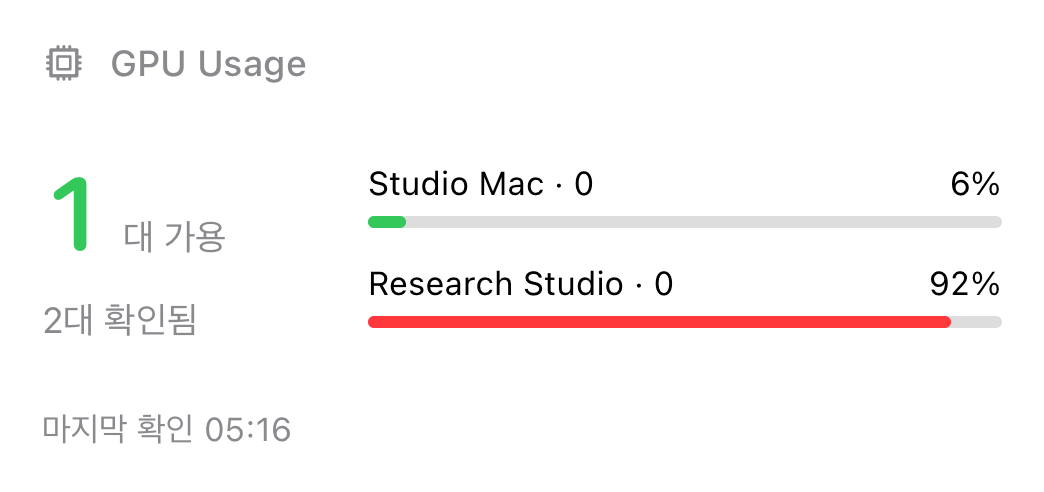
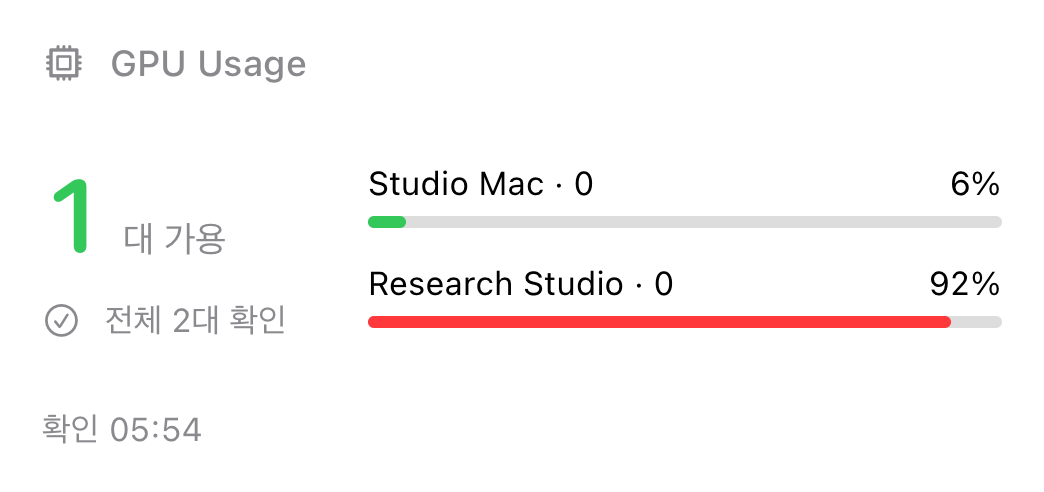
Refine GPU Usage 2.2.1 monitoring workflows and publish update feed

diff --git a/gpu-usage/README.md b/gpu-usage/README.md
@@ -4,13 +4,13 @@ Your GPUs, everywhere. A small utility for researchers and developers, with nati
 
 **Beta limitation:** Production iCloud setup is pending. Cross-device settings sync and iPhone-to-Mac Pro activation do not work yet. Manual server registration and viewing work independently on each device.
 
-[Download the current beta](https://github.com/saankim/myapps-releases/releases/tag/gpu-usage-v2.2.0) · [Privacy](PRIVACY.md)
+[Download the current beta](https://github.com/saankim/myapps-releases/releases/tag/gpu-usage-v2.2.1) · [Privacy](PRIVACY.md)
 
 ## Install
 
 **Mac:** Requires an Apple silicon Mac running macOS 26 or later. Unzip the release and move **GPU Usage.app** to **Applications**. Open it and use the menu-bar CPU icon. The app is signed with Developer ID and notarized by Apple.
 
-Starting with 2.2.0, open Settings → **This Mac (이 Mac)** → **Check for Updates (업데이트 확인)** to install updates inside the app. Automatic checks can be turned off there; installation requires your action. Updates are verified with Developer ID and Sparkle signatures. Users on 2.1.2 or earlier need to install 2.2.0 manually once.
+Starting with 2.2.0, open Settings → **This Mac (이 Mac)** → **Check for Updates (업데이트 확인)** to install updates inside the app. Automatic checks can be turned off there; installation requires your action. Updates are verified with Developer ID and Sparkle signatures. Users on 2.1.2 or earlier need to install the current release manually once.
 
 **iPhone / iPad:** Requires iOS or iPadOS 26 or later. The current version is an internal TestFlight beta; an invited Apple account is required. The public App Store listing is not yet available.
 
@@ -30,7 +30,7 @@ If `~/.local/bin` is not on your PATH, use the full path or add it to your shell
 
 ## Connect
 
-Register a server in Settings using an SSH address, username and key or password. Mac SSH `Host` entries appear automatically, including included configuration files; wildcard entries and proxy/jump connections are excluded. iPhone and iPad support unencrypted OpenSSH Ed25519 keys and SSH passwords. Each device still needs a network route to the server.
+Open Settings → **Server Management (서버 관리)** → **Add Server (서버 추가)**, then enter an SSH address, username and key or password. Mac SSH `Host` entries appear automatically, including included configuration files; wildcard entries and proxy/jump connections are excluded. iPhone and iPad support unencrypted OpenSSH Ed25519 keys and SSH passwords. Each device still needs a network route to the server.
 
 The first server key is remembered automatically, so the initial connection has no fingerprint confirmation step. If the key changes later, monitoring stops and the app shows a fingerprint warning. Confirm the replacement using the existing server trust dialog to reconnect. Existing trusted keys are preserved. SSH remains encrypted and requires user authentication; the app does not modify your SSH configuration or known-hosts files. Automatic first-use trust cannot detect an impersonated server on that very first connection.
 
@@ -52,17 +52,17 @@ Use the server filter at the top of the dashboard (or in Settings) to choose whi
 
 The awake Mac polls at your chosen interval while its menu-bar app runs. iPhone and iPad poll while visible; background refresh happens only when the operating system permits it. Apple Watch displays the latest phone snapshot and marks old results for rechecking. Background timing and notifications are not guaranteed. Job completion means the selected process disappeared, not that it succeeded.
 
-Availability alerts wait for repeated successful readings over a configurable duration (30 seconds by default). A failed query or a long observation gap restarts that duration. After an alert, another alert requires a busy-to-available transition and the configured cooldown (10 minutes by default). **Notify once** turns availability alerts off after the next notification is scheduled; enabling them again starts a fresh observation period.
+In Settings → **Available GPU Alerts (빈 GPU 알림)**, turn alerts on to reveal their conditions. Availability alerts wait for repeated successful readings over a configurable duration (30 seconds by default). A failed query or a long observation gap restarts that duration. After an alert, another alert requires a busy-to-available transition and the configured cooldown (10 minutes by default). **Notify once** turns availability alerts off after the next notification is scheduled; enabling them again starts a fresh observation period.
 
-Give watched processes a recognizable name, such as an experiment name. The latest 100 process-end detections remain in job history after a watch is removed. Timestamps show when disappearance was observed, not the exact exit time or a successful result.
+Expand **Add from Running Tasks (실행 중인 작업에서 추가)** beside the server to find a process by name or PID. Give watched processes a recognizable name, such as an experiment name. Use the task’s More menu to rename or stop watching it; the five most recent history entries stay visible, with older entries expandable. The latest 100 process-end detections remain in job history after a watch is removed. Timestamps show when disappearance was observed, not the exact exit time or a successful result.
 
-Star servers to show them first. In Settings, group multiple connections to the same server under a representative connection, using a suggested match or **Group connections (연결 직접 묶기)**. Grouping changes presentation and avoids duplicate availability alerts; it preserves the original connections and process watches. Separate them again at any time. The VS Code dashboard uses the same ordering and groups.
+Star servers to show them first, using the star in the iPhone/iPad server detail or the server’s More menu in **Server Management (서버 관리)**. Choose **Representative Connection (대표 연결 선택)** in that menu to group connections. A single selection sheet shows matching suggestions; changes apply when you save. Grouping changes presentation and avoids duplicate availability alerts; it preserves the original connections and process watches. Separate them again at any time. The VS Code dashboard uses the same ordering and groups.
 
 Connection failures show a short explanation, retry and server-settings actions, and expandable diagnostic details. Previously collected readings remain visibly stale until a successful refresh.
 
 ## Widgets and complications
 
-On iPhone or iPad, add **GPU Usage** from the Home Screen widget gallery after opening the app once. Small and medium widgets show GPU availability and the last observation time; accessory widgets are also available. On Apple Watch, add the GPU Usage circular, rectangular or inline complication to a compatible watch face after opening both companion apps.
+On iPhone or iPad, add **GPU Usage** from the Home Screen widget gallery after opening the app once. Small and medium widgets show GPU availability, how many GPUs have current readings, and the last observation time (including the date for older readings); accessory widgets are also available. On Apple Watch, add the GPU Usage circular, rectangular or inline complication to a compatible watch face after opening both companion apps.
 
 Widgets and complications use the latest device snapshot, without making SSH connections themselves. They follow the app's server selection and mark expired readings for rechecking instead of showing them as currently available. Tap to open the app and request fresh data. Widget and complication refresh timing is controlled by the operating system.
 
